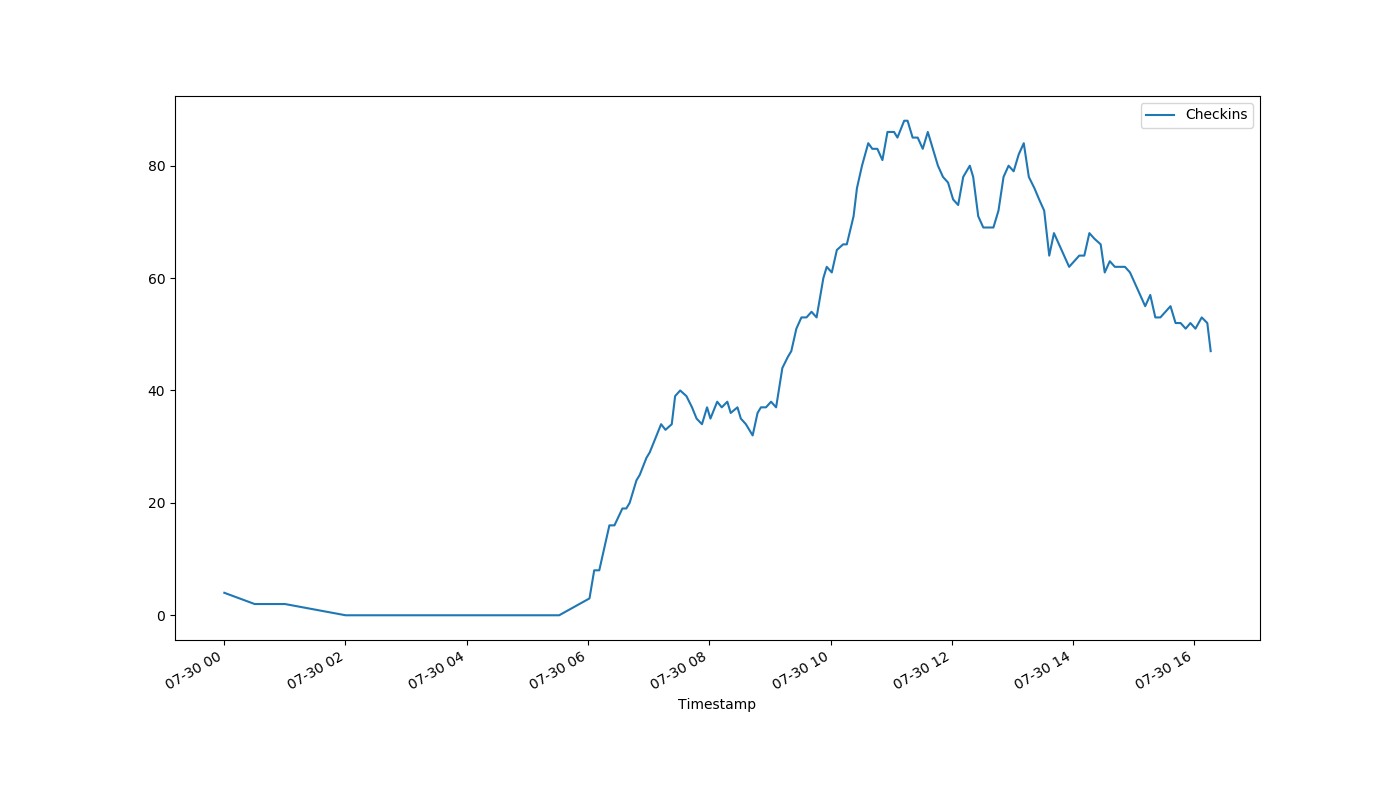
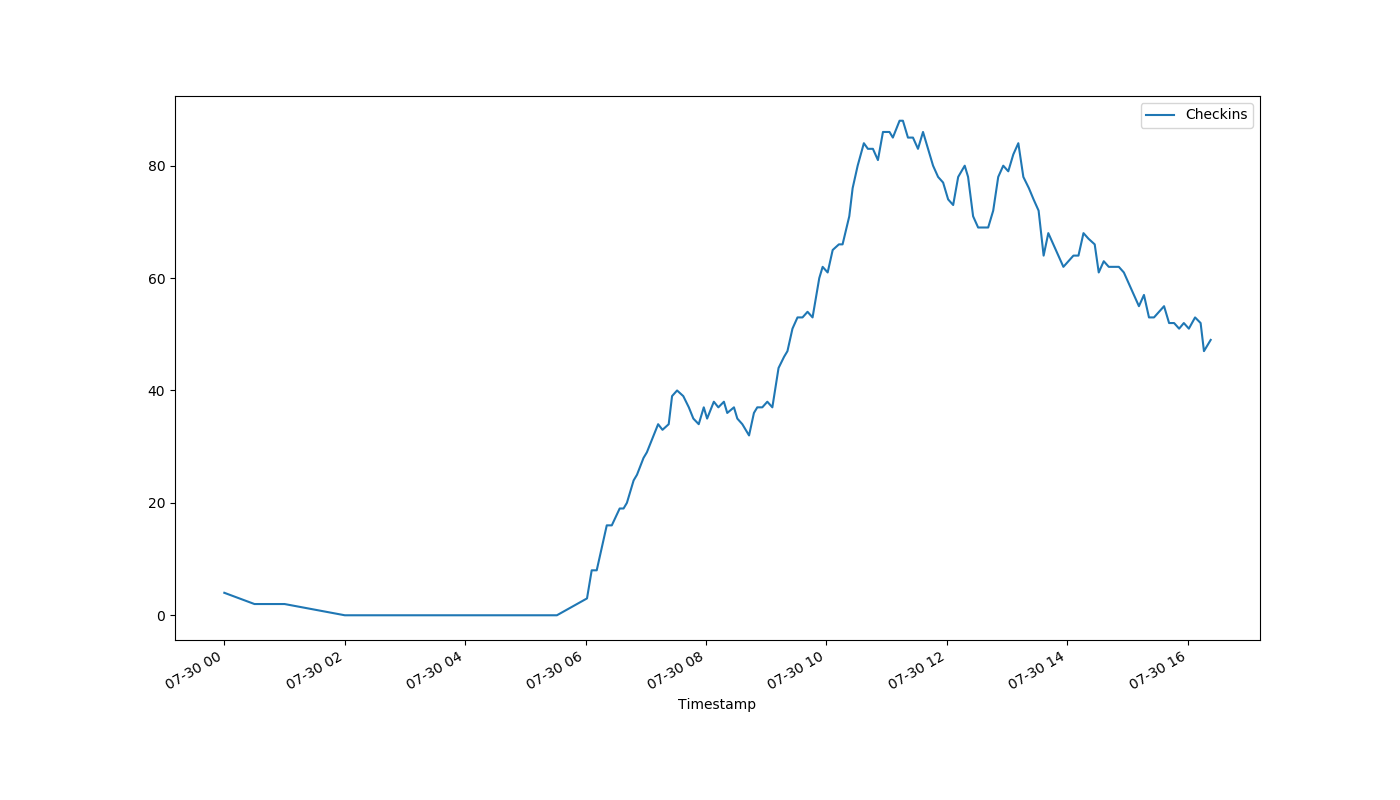
auto-Jul-30-16:23:50

diff --git a/index.html b/index.html
@@ -1,1 +1,1 @@
-<!DOCTYPE html><html><head><meta http-equiv="refresh" content="30"><link rel='stylesheet' href='holmcurrent.css'></head><body><p id='count'>47</p><div id='graph-wrap'><img id='graph' src='holmgraph-Jul-30.png'></div><p id='updated'>Last updated 16:17:00 / 16:16:04</p></body></html>
+<!DOCTYPE html><html><head><meta http-equiv="refresh" content="30"><link rel='stylesheet' href='holmcurrent.css'></head><body><p id='count'>49</p><div id='graph-wrap'><img id='graph' src='holmgraph-Jul-30.png'></div><p id='updated'>Last updated 16:23:00 / 16:22:45</p></body></html>
